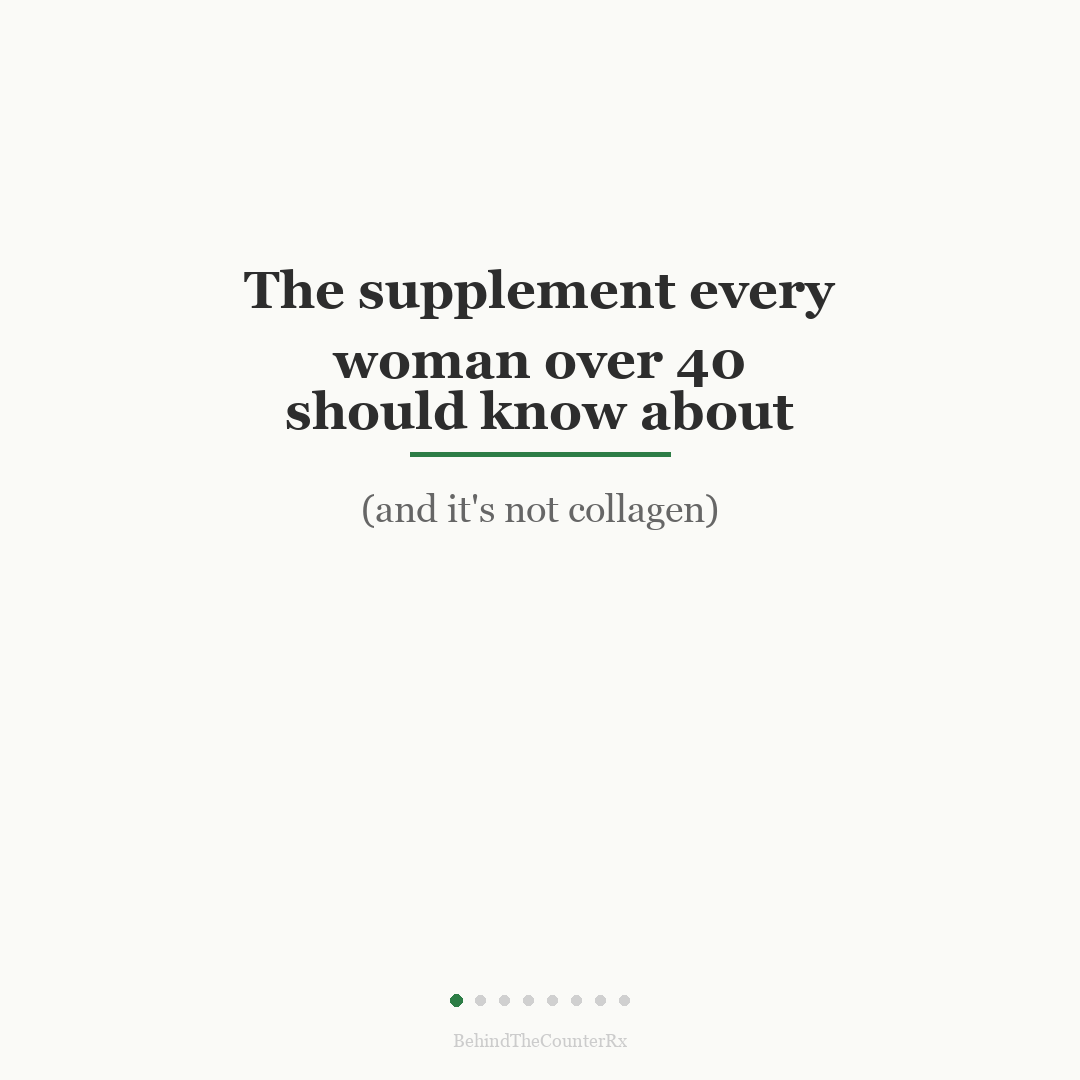
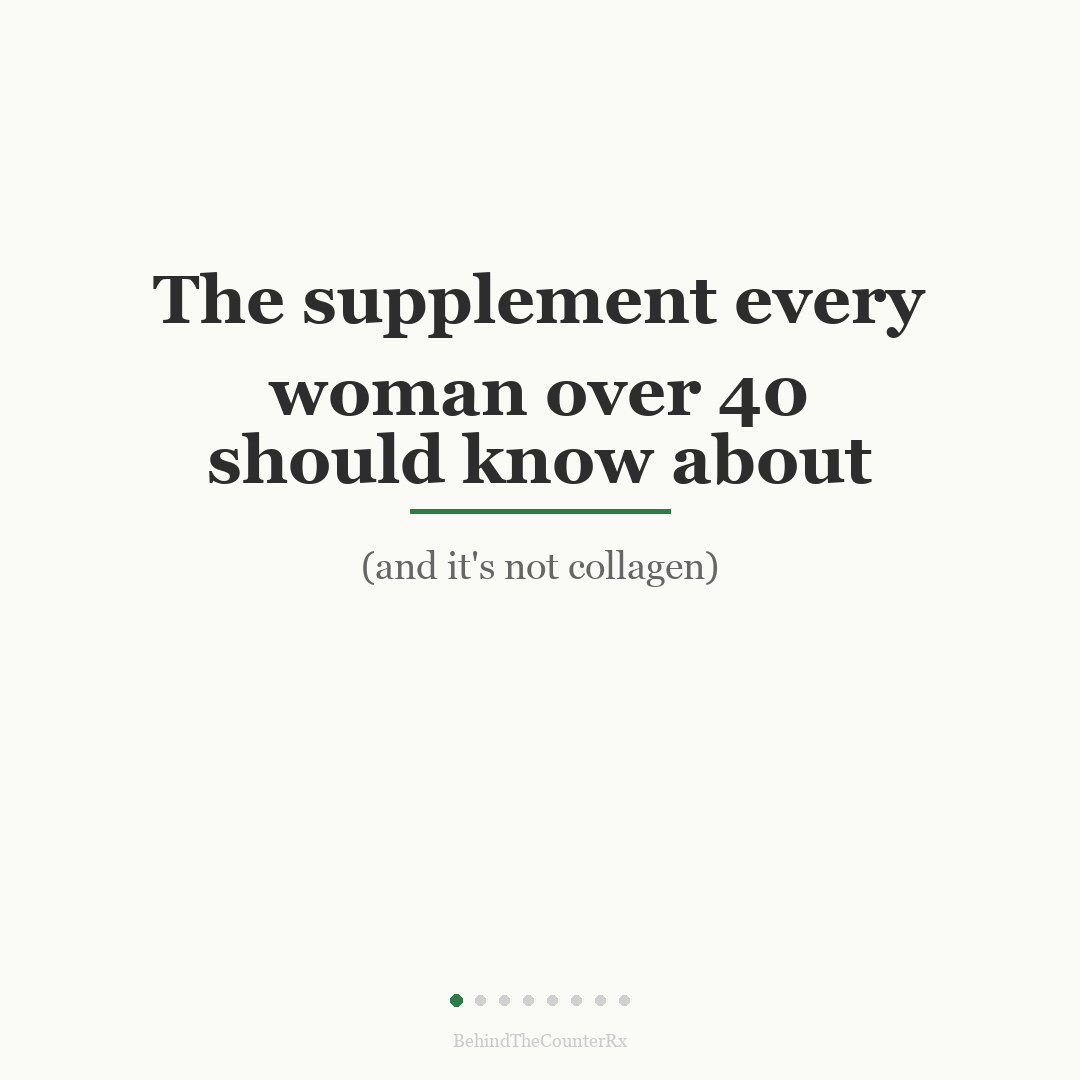
Fix IG font sizes: body 32pt min, headers 68pt min
Jordana feedback — fonts too small on all Instagram graphics.
Updated 4 generators + regenerated all 33 PNGs.

- generate_posts.py: body 28-30→32, headings 50-62→68
- btcrx-collagen-carousel: body_sm 28→32, heading 58→68
- btcrx-creatine-carousel: body 30→32, headings 52-60→68
- carousel-how-it-works: headings 56-62→68

Changed region(s): [[0.1528, 0.2444, 0.8556, 0.55]]

diff --git a/instagram-posts/carousel-how-it-works/generate.py b/instagram-posts/carousel-how-it-works/generate.py
@@ -156,8 +156,8 @@ for i, slide in enumerate(slides):
         # Cover slide — human-centric framing
         draw_divider(draw, 260)
         y = 290
-        y += draw_centered_text(draw, slide["title"], y, heading_font(56), DARK_BROWN) + 8
-        y += draw_centered_text(draw, slide["title2"], y, heading_font(56), DARK_BROWN) + 35
+        y += draw_centered_text(draw, slide["title"], y, heading_font(68), DARK_BROWN) + 8
+        y += draw_centered_text(draw, slide["title2"], y, heading_font(68), DARK_BROWN) + 35
         for line in slide["subtitle"].split("\n"):
             y += draw_centered_text(draw, line, y, body_font(32), MUTED_BROWN) + 10
         y += 50
@@ -172,8 +172,8 @@ for i, slide in enumerate(slides):
         y += draw_step_number(draw, slide["num"], y) + 10
         draw_divider(draw, y)
         y += 28
-        # Step headings at 62pt (meeting 60+ target from Jordana feedback)
-        y += draw_centered_text(draw, slide["title"], y, heading_font(62), DARK_BROWN) + 28
+        # Step headings at 68pt minimum (Jordana feedback: must be 68+)
+        y += draw_centered_text(draw, slide["title"], y, heading_font(68), DARK_BROWN) + 28
         y = draw_wrapped_centered(draw, slide["body"], y, body_font(32), MUTED_BROWN, max_width=880)
         y += 20
         # Detail text at 32pt minimum

diff --git a/instagram-posts/generate_posts.py b/instagram-posts/generate_posts.py
@@ -128,7 +128,7 @@ def draw_dots(draw, current, total=5, y=None):
 def graphic1():
     img, draw = new_canvas()
 
-    fnt_main = heading_font(60)
+    fnt_main = heading_font(68)
     fnt_second = heading_font(48)
 
     # Center the two lines as a block
@@ -156,8 +156,8 @@ def graphic1():
 def graphic2():
     img, draw = new_canvas()
 
-    fnt_main = heading_font(58)
-    fnt_sub = body_font(30)
+    fnt_main = heading_font(68)
+    fnt_sub = body_font(32)
 
     h1 = text_bbox_size(draw, "The in-between.", fnt_main)[1]
     subtitle = "After the holiday ends, the quiet returns."
@@ -210,8 +210,8 @@ def graphic3():
     for i, slide in enumerate(slides):
         img, draw = new_canvas()
 
-        fnt_heading = heading_font(50)
-        fnt_body = body_font(28)
+        fnt_heading = heading_font(68)
+        fnt_body = body_font(32)
 
         # Heading
         heading_h = draw_wrapped_centered(draw, slide["heading"], 200, fnt_heading, DARK_BROWN, max_width=850)
@@ -240,7 +240,7 @@ def graphic3():
 def graphic4():
     img, draw = new_canvas()
 
-    fnt_main = heading_font(62)
+    fnt_main = heading_font(68)
     fnt_sub = heading_font(44)
 
     # Very faint terracotta line above text

diff --git a/instagram-posts/btcrx-creatine-carousel/generate_slides.py b/instagram-posts/btcrx-creatine-carousel/generate_slides.py
@@ -57,18 +57,18 @@ def load_font(bold=False, size=48):
 
 def get_fonts():
     return {
-        "heading": load_font(bold=True, size=54),
-        "heading_large": load_font(bold=True, size=60),
-        "body": load_font(bold=False, size=30),
+        "heading": load_font(bold=True, size=68),
+        "heading_large": load_font(bold=True, size=68),
+        "body": load_font(bold=False, size=32),
         "body_large": load_font(bold=False, size=34),
         "subtext": load_font(bold=False, size=36),
         "watermark": load_font(bold=False, size=18),
         "footer": load_font(bold=False, size=24),
         "small": load_font(bold=False, size=20),
-        "slide1_heading": load_font(bold=True, size=52),
+        "slide1_heading": load_font(bold=True, size=68),
         "slide1_sub": load_font(bold=False, size=38),
         "slide2_heading": load_font(bold=True, size=72),
-        "slide2_body": load_font(bold=False, size=30),
+        "slide2_body": load_font(bold=False, size=32),
     }
 
 

diff --git a/instagram-posts/btcrx-collagen-carousel/generate_slides.py b/instagram-posts/btcrx-collagen-carousel/generate_slides.py
@@ -42,9 +42,9 @@ def load_font(bold=False, size=54):
 
 
 FONT_HEADING_LG = load_font(bold=True, size=68)
-FONT_HEADING = load_font(bold=True, size=58)
+FONT_HEADING = load_font(bold=True, size=68)
 FONT_BODY = load_font(bold=False, size=32)
-FONT_BODY_SM = load_font(bold=False, size=28)
+FONT_BODY_SM = load_font(bold=False, size=32)
 FONT_WATERMARK = load_font(bold=False, size=22)
 FONT_DISCLAIMER = load_font(bold=False, size=22)
 FONT_SUBTEXT = load_font(bold=False, size=38)
